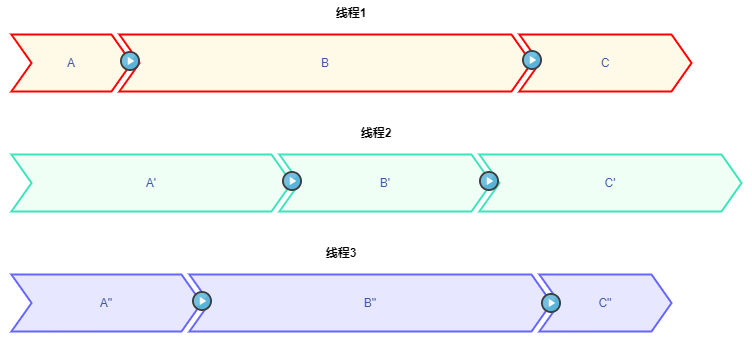
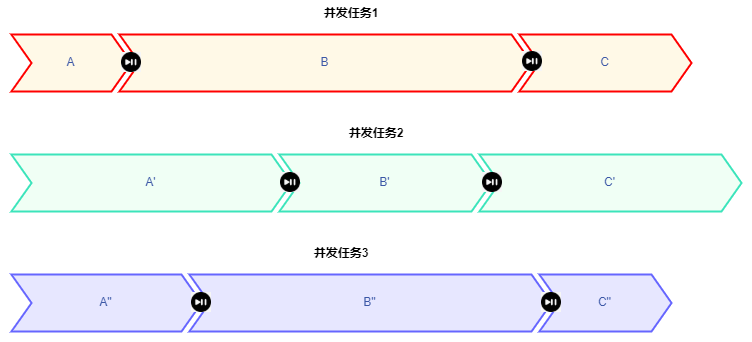
update async

diff --git a/docs/programming/architecture/并发及异步编程.md b/docs/programming/architecture/并发及异步编程.md
@@ -254,13 +254,35 @@ if __name__ == '__main__':
 
 缺点：1.共享状态管理困难，同步阻塞版的`sock`对象从头使用到尾，而在回调的版本中，我们必须在`Crawler`实例化后的对象`self`里保存它自己的`sock`对象。如果不是采用OOP的编程风格，那需要把要共享的状态接力似的传递给每一个回调。多个异步调用之间，到底要共享哪些状态，事先就得考虑清楚，精心设计(<font color=Yellow>验证了优点1中的A</font>)；2.错误处理困难/栈撕裂，为了防止栈撕裂，异常必须以数据的形式返回，而不是直接抛出异常，然后每个回调中需要检查上次调用的返回值，以防错误吞没；3.破坏代码结构，回调层次过多导致阅读困难  
 
-<font color=limegreen>对于缺点1，对于OOP不成为问题，正如示例代码实现的那样，成功利用线程的资源共享范围克服竞态条件，实现共享状态管理，至于POP是否是问题需要尝试实现一下；缺点1和缺点2其实是1个问题的一体两面，即异步回调的核心问题：如下图，有3个并发任务（1.A-->B-->C, 2.A'-->B'-->C', 3.A''-->B''-->C''），当遇到I/O阻塞时，步骤A向select注册回调函数(即步骤B)， A和B此时已经完全割裂开了，导致缺点1：必须精心设计步骤A和B之间共享的状态才能将数据在A和B之间传递，同时导致缺点2，B不知道它的前序步骤是A，所以如果不在回调检查上次调用的返回值的话，那么B报错的时候，就无法知道是并发任务1还是2还是3出错了，只知道B报错了。割裂的目的是为了克服竞态条件，但是这样的割裂程度太高，我们希望实现的割裂是A-->B-->C之间不割裂可以共享状态，相互通信知道前因后果，<u>就像ABC仍然在同一个函数内一样</u>，而在A和(A',B',C',A'',B'',C'')之间是完全割裂从而克服竞态条件，由此引入下面协程的改进方式</font>  
+<font color=limegreen>对于缺点1，对于OOP不成为问题，正如示例代码实现的那样，成功利用线程的资源共享范围克服竞态条件，实现共享状态管理，至于POP是否是问题需要尝试实现一下；缺点1和缺点2其实是1个问题的一体两面，即异步回调的核心问题：使用原生的select回调机制会完全割裂共享的资源。如下图，有3个并发任务（1.A-->B-->C, 2.A'-->B'-->C', 3.A''-->B''-->C''），当遇到I/O阻塞时，步骤A向select注册回调函数(即步骤B)， A和B此时已经完全割裂开了，导致缺点1：必须精心设计步骤A和B之间共享的状态才能将数据在A和B之间传递，同时导致缺点2，B不知道它的前序步骤是A，所以如果不在回调检查上次调用的返回值的话，那么B报错的时候，就无法知道是并发任务1还是2还是3出错了，只知道B报错了。割裂的目的是为了克服竞态条件，但是这样的割裂程度太高，我们希望实现的割裂是A-->B-->C之间不割裂可以共享状态，相互通信知道前因后果，<u>就像ABC仍然在同一个函数内一样</u>，而在A和(A',B',C',A'',B'',C'')之间是完全割裂从而克服竞态条件，由此引入下面协程的改进方式</font>  
 
 <div align="center"> <img src="https://blackholemedia.github.io/documents/statics/async.png" width="90%"> </div><br>
 
 ### 以协程（yield）模式的异步非阻塞方式改进  
 
-left blank
+既然使用原生的select机制的回调会导致共享的状态完全割裂，那么我们就利用协程改造一下回调的方式，让select依然能够为我所用。  
+
+构造一个未来对象(Future)，未来对象的功能类似于寄存器，未来对象包含三个特点：  
+
+1. 具备一个属性A，该属性用于保存上一阶段结果(即异步I/O的返回结果)；  
+2. 具备一个属性B，该属性用于保存步进函数； 
+3. 具备一个方法C(resume)，该方法用于设置上一阶段结果(属性A)，然后执行步进函数(属性B)； 
+
+首先实现暂停(pause)功能，python中yield关键字天然具备暂停的功能，那么我们直接在任务逻辑代码中分界处(即异步阻塞I/O)增加yield关键字，该处即可实现暂停。<font color=limegreen>用异步非阻塞的方式模拟了同步阻塞，从任务逻辑代码的角度看，同步阻塞：任务执行着，然后遇到了I/O，然后停下来等待I/O返回，yield: 任务执行着，然后遇到了I/O，然后暂停，只是将I/O放到异步处理</font>，<font color=red>从而将代码结构转换为同步的结构</font>。任务逻辑代码基本与异步非阻塞方式的一致，拆解为若干个步骤，不同步骤之间按上述方式实现暂停。不同之处在于：阻塞时不是把下一步骤封装为回调函数，而是实例化一个未来对象，对该未来对象的方法C(resume)进行封装，封装后的函数作为回调函数  
+
+暂停操作的具体细节为：1. 实例化一个未来对象，将未来要做的事情(保存异步结果、执行步进)都塞到未来对象里面；
+
+实现恢复(resume)功能
+
+再然后构造一个任务调度器，与其说是任务调度器，倒不如说是将任务逻辑代码改造成具备步进功能的代码，我愿称之为步进电机生成器，一段顺序执行的代码进来，变成了一段步进执行的代码出去。既然是改造任务逻辑代码，所以初始化时必然有一个入参是指明任务的，也就是我们的任务逻辑代码。
+
+任务管理器必须耦合未来对象和任务逻辑代码
+
+任务逻辑代码基本与异步非阻塞方式的一致，拆解为若干个步骤，不同步骤以阻塞操作作为分界，  
+
+这个中间对象具有一个步进方法中间对象的作用类似于寄存器，如下图中的按钮：  
+
+<div align="center"> <img src="https://blackholemedia.github.io/documents/statics/generator_async.png" width="90%"> </div><br>
 
 ### GIL锁  
 
